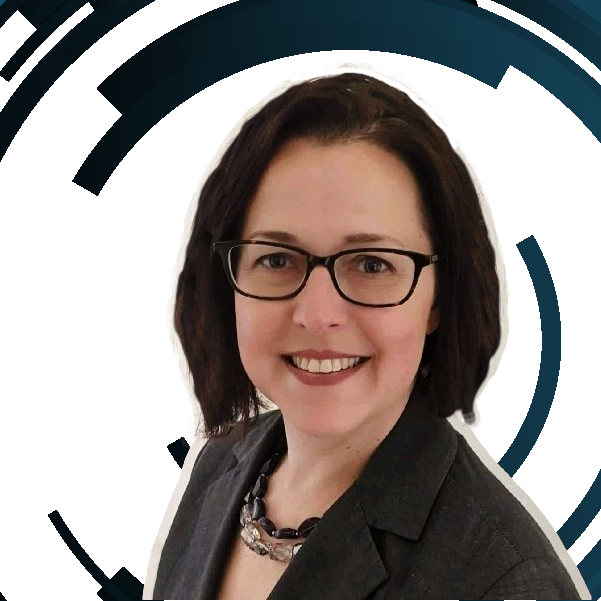
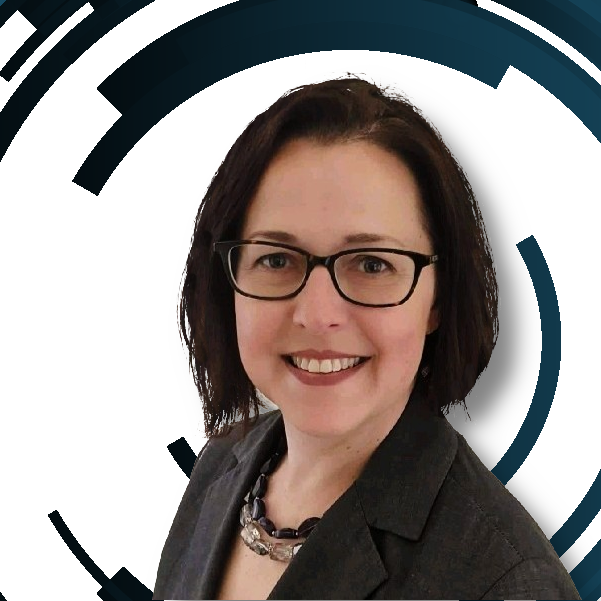
better images

Changed region(s): [[0.2396, 0.0899, 1.0, 1.0], [0.8386, 0.9884, 0.8985, 1.0], [0.4193, 0.6589, 0.4792, 0.6889]]

diff --git a/src/app/app.component.scss b/src/app/app.component.scss
@@ -4,11 +4,11 @@
     background: #082634;
 
     &__image {
-        background-size: 80%;
+        background-size: contain;
         height: inherit;
-        background-position: bottom right;
+        background-position: right center;
         background-repeat: no-repeat;
-        background-image: url("~src/assets/images/donna_headshot3.png");
+        background-image: url("~src/assets/images/donna_headshot4.png");
     }
 
     &__content {
